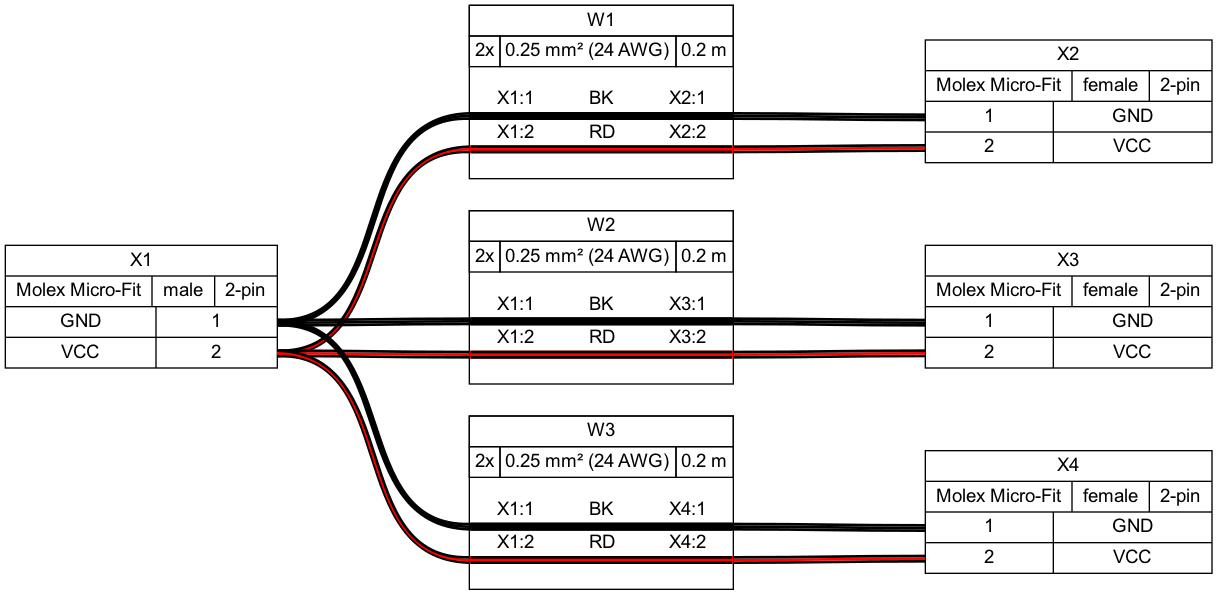
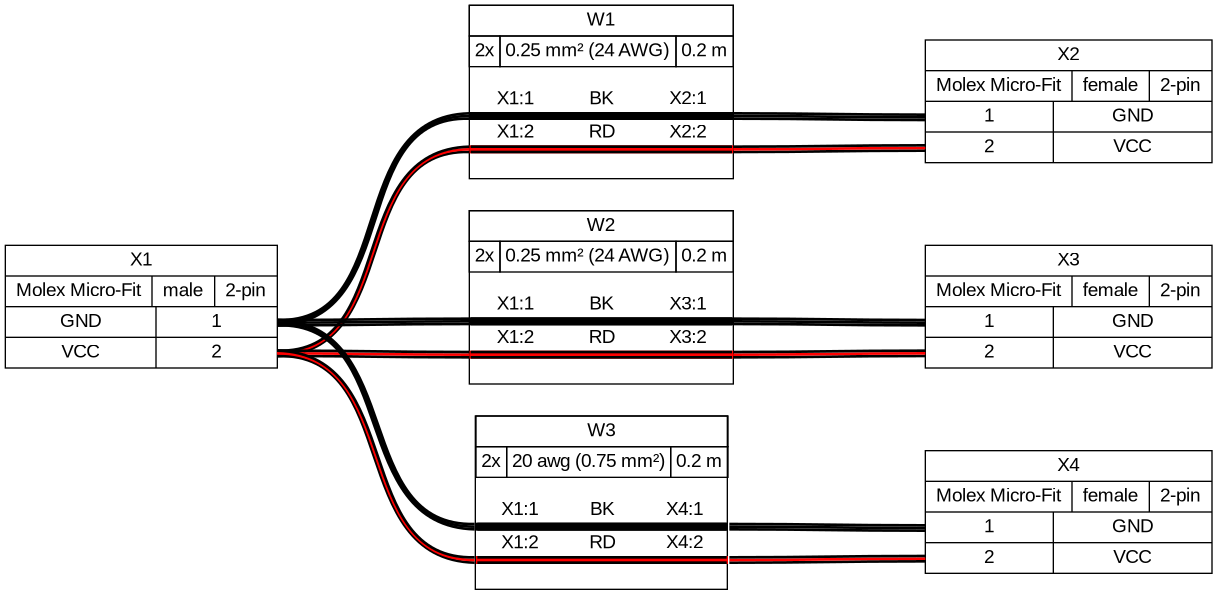
Feature: bidirectional AWG/mm2 unit conversion (#41)
* Fix AWG<-> mm2 conversions

Add an inverted dictionary and a lookup function from awg -> mm2. Also
do some minor refactoring. Both sides of the conversion table were
converted to strings, since '0000' and '2/0' are perfectly valid AWG
values.

* Update example ex02 with awg -> mm2 conversion

Show conversions for ex02, and make sure it displays conversions in both
directions. Rebuild the example files.

* Fix faulty conversion of non-(mm2,AWG) units

The parsing allows arbitrary units to be used for cable dimensions --
this might be valid units, e.g. square inches, or invalid, e.g. bananas.
We only allow conversion between mm2 and AWG, so check that the
gauge_unit is either of those before conversion. If not, pass through as
is.

* Fix AWG string casing in output

Convert e.g. 'awg, 'AwG' to upper case for consistent rendering. Leave
any other input gauge units as they were.

diff --git a/examples/ex02.html b/examples/ex02.html
@@ -1,7 +1,7 @@
 <html><body style="font-family:Arial"><h1>Diagram</h1><?xml version="1.0" encoding="UTF-8" standalone="no"?>
 <!DOCTYPE svg PUBLIC "-//W3C//DTD SVG 1.1//EN"
  "http://www.w3.org/Graphics/SVG/1.1/DTD/svg11.dtd">
-<!-- Generated by graphviz version 2.44.0 (20200408.0750)
+<!-- Generated by graphviz version 2.44.0 (0)
  -->
 <!-- Pages: 1 -->
 <svg width="913pt" height="446pt"
@@ -113,43 +113,43 @@
 <!-- W3 -->
 <g id="node7" class="node">
 <title>W3</title>
-<polygon fill="none" stroke="black" points="546,-130 348,-130 348,0 546,0 546,-130"/>
-<polygon fill="none" stroke="black" points="348,-107 348,-130 546,-130 546,-107 348,-107"/>
-<text text-anchor="start" x="436" y="-114.8" font-family="arial" font-size="14.00">W3</text>
-<polygon fill="none" stroke="black" points="348,-84 348,-107 371,-107 371,-84 348,-84"/>
-<text text-anchor="start" x="352" y="-91.8" font-family="arial" font-size="14.00">2x</text>
-<polygon fill="none" stroke="black" points="371,-84 371,-107 503,-107 503,-84 371,-84"/>
-<text text-anchor="start" x="375" y="-91.8" font-family="arial" font-size="14.00">0.25 mm² (24 AWG)</text>
-<polygon fill="none" stroke="black" points="503,-84 503,-107 546,-107 546,-84 503,-84"/>
-<text text-anchor="start" x="507" y="-91.8" font-family="arial" font-size="14.00">0.2 m</text>
-<text text-anchor="start" x="445" y="-72.8" font-family="arial" font-size="14.00"> </text>
-<text text-anchor="start" x="368.5" y="-55.8" font-family="arial" font-size="14.00">X1:1</text>
-<text text-anchor="start" x="438" y="-55.8" font-family="arial" font-size="14.00">BK</text>
-<text text-anchor="start" x="498" y="-55.8" font-family="arial" font-size="14.00">X4:1</text>
-<polygon fill="#000000" stroke="transparent" points="348,-44 348,-50 546,-50 546,-44 348,-44"/>
-<polyline fill="none" stroke="black" stroke-width="2" points="349,-45 545,-45 "/>
-<polyline fill="none" stroke="black" stroke-width="2" points="545,-49 349,-49 "/>
-<text text-anchor="start" x="368.5" y="-30.8" font-family="arial" font-size="14.00">X1:2</text>
-<text text-anchor="start" x="437.5" y="-30.8" font-family="arial" font-size="14.00">RD</text>
-<text text-anchor="start" x="498" y="-30.8" font-family="arial" font-size="14.00">X4:2</text>
-<polygon fill="#ff0000" stroke="transparent" stroke-width="2" points="348,-19 348,-25 546,-25 546,-19 348,-19"/>
-<polyline fill="none" stroke="black" stroke-width="2" points="349,-20 545,-20 "/>
-<polyline fill="none" stroke="black" stroke-width="2" points="545,-24 349,-24 "/>
-<text text-anchor="start" x="380.5" y="-5.8" font-family="arial" font-size="14.00"> </text>
+<polygon fill="none" stroke="black" points="541.5,-130 352.5,-130 352.5,0 541.5,0 541.5,-130"/>
+<polygon fill="none" stroke="black" points="353,-107 353,-130 542,-130 542,-107 353,-107"/>
+<text text-anchor="start" x="436.5" y="-114.8" font-family="arial" font-size="14.00">W3</text>
+<polygon fill="none" stroke="black" points="353,-84 353,-107 376,-107 376,-84 353,-84"/>
+<text text-anchor="start" x="357" y="-91.8" font-family="arial" font-size="14.00">2x</text>
+<polygon fill="none" stroke="black" points="376,-84 376,-107 499,-107 499,-84 376,-84"/>
+<text text-anchor="start" x="380" y="-91.8" font-family="arial" font-size="14.00">20 awg (0.75 mm²)</text>
+<polygon fill="none" stroke="black" points="499,-84 499,-107 542,-107 542,-84 499,-84"/>
+<text text-anchor="start" x="503" y="-91.8" font-family="arial" font-size="14.00">0.2 m</text>
+<text text-anchor="start" x="445.5" y="-72.8" font-family="arial" font-size="14.00"> </text>
+<text text-anchor="start" x="372" y="-55.8" font-family="arial" font-size="14.00">X1:1</text>
+<text text-anchor="start" x="438.5" y="-55.8" font-family="arial" font-size="14.00">BK</text>
+<text text-anchor="start" x="495.5" y="-55.8" font-family="arial" font-size="14.00">X4:1</text>
+<polygon fill="#000000" stroke="transparent" points="353,-44 353,-50 542,-50 542,-44 353,-44"/>
+<polyline fill="none" stroke="black" stroke-width="2" points="354,-45 541,-45 "/>
+<polyline fill="none" stroke="black" stroke-width="2" points="541,-49 354,-49 "/>
+<text text-anchor="start" x="372" y="-30.8" font-family="arial" font-size="14.00">X1:2</text>
+<text text-anchor="start" x="438" y="-30.8" font-family="arial" font-size="14.00">RD</text>
+<text text-anchor="start" x="495.5" y="-30.8" font-family="arial" font-size="14.00">X4:2</text>
+<polygon fill="#ff0000" stroke="transparent" stroke-width="2" points="353,-19 353,-25 542,-25 542,-19 353,-19"/>
+<polyline fill="none" stroke="black" stroke-width="2" points="354,-20 541,-20 "/>
+<polyline fill="none" stroke="black" stroke-width="2" points="541,-24 354,-24 "/>
+<text text-anchor="start" x="384" y="-5.8" font-family="arial" font-size="14.00"> </text>
 </g>
 <!-- X1&#45;&#45;W3 -->
 <g id="edge9" class="edge">
 <title>X1:e&#45;&#45;W3:w</title>
-<path fill="none" stroke="#000000" stroke-width="2" d="M204,-198C295.45,-200.54 252.69,-47.54 348,-45"/>
-<path fill="none" stroke="#000000" stroke-width="2" d="M204,-200C297.38,-200 254.62,-47 348,-47"/>
-<path fill="none" stroke="#000000" stroke-width="2" d="M204,-202C299.31,-199.46 256.55,-46.46 348,-49"/>
+<path fill="none" stroke="#000000" stroke-width="2" d="M204,-198C296.68,-200.52 255.46,-47.52 352,-45"/>
+<path fill="none" stroke="#000000" stroke-width="2" d="M204,-200C298.61,-200 257.39,-47 352,-47"/>
+<path fill="none" stroke="#000000" stroke-width="2" d="M204,-202C300.54,-199.48 259.32,-46.48 352,-49"/>
 </g>
 <!-- X1&#45;&#45;W3 -->
 <g id="edge11" class="edge">
 <title>X1:e&#45;&#45;W3:w</title>
-<path fill="none" stroke="#000000" stroke-width="2" d="M204,-175C296.11,-177.55 252.05,-22.55 348,-20"/>
-<path fill="none" stroke="#ff0000" stroke-width="2" d="M204,-177C298.03,-177 253.97,-22 348,-22"/>
-<path fill="none" stroke="#000000" stroke-width="2" d="M204,-179C299.95,-176.45 255.89,-21.45 348,-24"/>
+<path fill="none" stroke="#000000" stroke-width="2" d="M204,-175C297.32,-177.53 254.82,-22.53 352,-20"/>
+<path fill="none" stroke="#ff0000" stroke-width="2" d="M204,-177C299.25,-177 256.75,-22 352,-22"/>
+<path fill="none" stroke="#000000" stroke-width="2" d="M204,-179C301.18,-176.47 258.68,-21.47 352,-24"/>
 </g>
 <!-- X2 -->
 <g id="node2" class="node">
@@ -242,17 +242,17 @@
 <!-- W3&#45;&#45;X4 -->
 <g id="edge10" class="edge">
 <title>W3:e&#45;&#45;X4:w</title>
-<path fill="none" stroke="#000000" stroke-width="2" d="M546,-45C609.88,-45 625.87,-44 690,-44"/>
-<path fill="none" stroke="#000000" stroke-width="2" d="M546,-47C610,-47 626,-46 690,-46"/>
-<path fill="none" stroke="#000000" stroke-width="2" d="M546,-49C610.13,-49 626.12,-48 690,-48"/>
+<path fill="none" stroke="#000000" stroke-width="2" d="M543,-45C608.21,-45 624.54,-44 690,-44"/>
+<path fill="none" stroke="#000000" stroke-width="2" d="M543,-47C608.33,-47 624.67,-46 690,-46"/>
+<path fill="none" stroke="#000000" stroke-width="2" d="M543,-49C608.46,-49 624.79,-48 690,-48"/>
 </g>
 <!-- W3&#45;&#45;X4 -->
 <g id="edge12" class="edge">
 <title>W3:e&#45;&#45;X4:w</title>
-<path fill="none" stroke="#000000" stroke-width="2" d="M546,-20C610.13,-20 626.12,-21 690,-21"/>
-<path fill="none" stroke="#ff0000" stroke-width="2" d="M546,-22C610,-22 626,-23 690,-23"/>
-<path fill="none" stroke="#000000" stroke-width="2" d="M546,-24C609.88,-24 625.87,-25 690,-25"/>
+<path fill="none" stroke="#000000" stroke-width="2" d="M543,-20C608.46,-20 624.79,-21 690,-21"/>
+<path fill="none" stroke="#ff0000" stroke-width="2" d="M543,-22C608.33,-22 624.67,-23 690,-23"/>
+<path fill="none" stroke="#000000" stroke-width="2" d="M543,-24C608.21,-24 624.54,-25 690,-25"/>
 </g>
 </g>
 </svg>
-<h1>Bill of Materials</h1><table style="border:1px solid #000000; font-size: 14pt; border-spacing: 0px"><tr><th align="left" style="border:1px solid #000000; padding: 8px">Item</th><th align="left" style="border:1px solid #000000; padding: 8px">Qty</th><th align="left" style="border:1px solid #000000; padding: 8px">Unit</th><th align="left" style="border:1px solid #000000; padding: 8px">Designators</th></tr><tr><td  style="border:1px solid #000000; padding: 4px">Connector, Molex Micro-Fit, female, 2 pins</td><td align="right" style="border:1px solid #000000; padding: 4px">3</td><td  style="border:1px solid #000000; padding: 4px"></td><td  style="border:1px solid #000000; padding: 4px">X2, X3, X4</td></tr><tr><td  style="border:1px solid #000000; padding: 4px">Connector, Molex Micro-Fit, male, 2 pins</td><td align="right" style="border:1px solid #000000; padding: 4px">1</td><td  style="border:1px solid #000000; padding: 4px"></td><td  style="border:1px solid #000000; padding: 4px">X1</td></tr><tr><td  style="border:1px solid #000000; padding: 4px">Cable, 2 x 0.25 mm²</td><td align="right" style="border:1px solid #000000; padding: 4px">0.6</td><td  style="border:1px solid #000000; padding: 4px">m</td><td  style="border:1px solid #000000; padding: 4px">W1, W2, W3</td></tr></table></body></html>
+<h1>Bill of Materials</h1><table style="border:1px solid #000000; font-size: 14pt; border-spacing: 0px"><tr><th align="left" style="border:1px solid #000000; padding: 8px">Item</th><th align="left" style="border:1px solid #000000; padding: 8px">Qty</th><th align="left" style="border:1px solid #000000; padding: 8px">Unit</th><th align="left" style="border:1px solid #000000; padding: 8px">Designators</th></tr><tr><td  style="border:1px solid #000000; padding: 4px">Connector, Molex Micro-Fit, female, 2 pins</td><td align="right" style="border:1px solid #000000; padding: 4px">3</td><td  style="border:1px solid #000000; padding: 4px"></td><td  style="border:1px solid #000000; padding: 4px">X2, X3, X4</td></tr><tr><td  style="border:1px solid #000000; padding: 4px">Connector, Molex Micro-Fit, male, 2 pins</td><td align="right" style="border:1px solid #000000; padding: 4px">1</td><td  style="border:1px solid #000000; padding: 4px"></td><td  style="border:1px solid #000000; padding: 4px">X1</td></tr><tr><td  style="border:1px solid #000000; padding: 4px">Cable, 2 x 0.25 mm²</td><td align="right" style="border:1px solid #000000; padding: 4px">0.4</td><td  style="border:1px solid #000000; padding: 4px">m</td><td  style="border:1px solid #000000; padding: 4px">W1, W2</td></tr><tr><td  style="border:1px solid #000000; padding: 4px">Cable, 2 x 20 awg</td><td align="right" style="border:1px solid #000000; padding: 4px">0.2</td><td  style="border:1px solid #000000; padding: 4px">m</td><td  style="border:1px solid #000000; padding: 4px">W3</td></tr></table></body></html>

diff --git a/src/wireviz/Harness.py b/src/wireviz/Harness.py
@@ -4,7 +4,7 @@
 from wireviz.DataClasses import Connector, Cable
 from graphviz import Graph
 from wireviz import wv_colors
-from wireviz.wv_helper import awg_equiv, tuplelist2tsv, nested, flatten2d
+from wireviz.wv_helper import awg_equiv, mm2_equiv, tuplelist2tsv, nested, flatten2d
 from collections import Counter
 from typing import List
 
@@ -113,9 +113,19 @@ class Harness:
                                  f'{connector.name}:p{loop[1]}{loop_side}:{loop_dir}')
 
         for _, cable in self.cables.items():
-            awg_fmt = f' ({awg_equiv(cable.gauge)} AWG)' if cable.gauge_unit == 'mm\u00B2' and cable.show_equiv else ''
+
+            awg_fmt = ''
+            if cable.show_equiv:
+                # Only convert units we actually know about, i.e. currently
+                # mm2 and awg --- other units _are_ technically allowed,
+                # and passed through as-is.
+                if cable.gauge_unit =='mm\u00B2':
+                    awg_fmt = f' ({awg_equiv(cable.gauge)} AWG)'
+                elif cable.gauge_unit.upper() == 'AWG':
+                    awg_fmt = f' ({mm2_equiv(cable.gauge)} mm\u00B2)'
+
             attributes = [f'{len(cable.colors)}x' if cable.show_wirecount else '',
-                          f'{cable.gauge} {cable.gauge_unit}{awg_fmt}' if cable.gauge else '',  # TODO: show equiv
+                          f'{cable.gauge} {cable.gauge_unit}{awg_fmt}' if cable.gauge else '',
                           '+ S' if cable.shield else '',
                           f'{cable.length} m' if cable.length > 0 else '']
             attributes = list(filter(None, attributes))

diff --git a/src/wireviz/wv_helper.py b/src/wireviz/wv_helper.py
@@ -3,32 +3,32 @@
 
 from typing import List
 
+awg_equiv_table = {
+    '0.09': '28',
+    '0.14': '26',
+    '0.25': '24',
+    '0.34': '22',
+    '0.5': '21',
+    '0.75': '20',
+    '1': '18',
+    '1.5': '16',
+    '2.5': '14',
+    '4': '12',
+    '6': '10',
+    '10': '8',
+    '16': '6',
+    '25': '4',
+    '35': '2',
+    '50': '1',
+}
+
+mm2_equiv_table = {v:k for k,v in awg_equiv_table.items()}
 
 def awg_equiv(mm2):
-    awg_equiv_table = {
-        '0.09': 28,
-        '0.14': 26,
-        '0.25': 24,
-        '0.34': 22,
-        '0.5': 21,
-        '0.75': 20,
-        '1': 18,
-        '1.5': 16,
-        '2.5': 14,
-        '4': 12,
-        '6': 10,
-        '10': 8,
-        '16': 6,
-        '25': 4,
-        '35': 2,
-        '50': 1,
-    }
-    k = str(mm2)
-    if k in awg_equiv_table:
-        return awg_equiv_table[k]
-    else:
-        return 'unknown'
+    return awg_equiv_table.get(str(mm2), 'Unknown')
 
+def mm2_equiv(awg):
+    return mm2_equiv_table.get(str(awg), 'Unknown')
 
 def nested(inp):
     l = []

diff --git a/src/wireviz/DataClasses.py b/src/wireviz/DataClasses.py
@@ -83,7 +83,12 @@ class Cable:
             except Exception:
                 raise Exception('Gauge must be a number, or number and unit separated by a space')
             self.gauge = g
-            self.gauge_unit = u.replace('mm2', 'mm\u00B2')
+
+            if u.upper() == 'AWG':
+                self.gauge_unit = u.upper()
+            else:
+                self.gauge_unit = u.replace('mm2', 'mm\u00B2')
+
         elif self.gauge is not None:  # gauge specified, assume mm2
             if self.gauge_unit is None:
                 self.gauge_unit = 'mm\u00B2'
